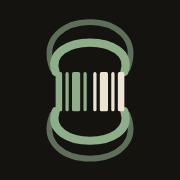
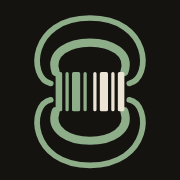
Ícono: la variante B que eligió Andres
Las líneas de campo de afuera van en verde sólido (al 60% se veían
barrosas sobre la tinta) y nacen más abajo, de la cara de cada polo, así
las puntas no se amontonan en las esquinas del bloque. Regenerado todo el
pack con brand-icons.mjs; el maskable queda al 70%. La pantalla de
apertura usa la misma geometría. Favicon sin cambios.

Changed region(s): [[0.1667, 0.5278, 0.8333, 0.9444], [0.1667, 0.0833, 0.8333, 0.5], [0.2778, 0.6111, 0.3056, 0.6389]]

diff --git a/src/components/opening-screen.tsx b/src/components/opening-screen.tsx
@@ -38,15 +38,13 @@ export function OpeningScreen({
           <path d="M 34,68 C 26,92 84,92 76,68" strokeWidth={5} />
           <path
             className="iman-open-outer"
-            d="M 32,42 C 18,4 92,4 78,42"
+            d="M 31,51 C 17,48 18,11 55,11 C 92,11 93,48 79,51"
             strokeWidth={3.5}
-            opacity={0.6}
           />
           <path
             className="iman-open-outer"
-            d="M 32,70 C 18,106 92,106 78,70"
+            d="M 31,61 C 17,64 18,101 55,101 C 92,101 93,64 79,61"
             strokeWidth={3.5}
-            opacity={0.6}
           />
         </g>
         <g className="iman-open-bars">

diff --git a/brand/README.md b/brand/README.md
@@ -73,6 +73,11 @@ cualquier pieza animada.
 - **Cambiar los colores**, ni siquiera "parecidos". Para fondo claro está el
   negativo; para una tinta, las de un color.
 - **Rotar** ni inclinar.
+- **Poner transparencia a las líneas de campo.** Van sólidas: el verde al 60%
+  sobre la tinta se veía barroso en el celu.
+- **Juntar las puntas de las líneas de afuera con las de adentro.** Las de
+  afuera nacen más abajo, de la cara de cada polo: con las cuatro puntas en la
+  esquina del bloque, la silueta parecía una U.
 - **Dibujar las líneas de campo de un extremo al otro** en una animación:
   nacen del imán hacia afuera.
 - Ponerlo **sobre fotos o fondos sin contraste**. Si el fondo es cargado, va
